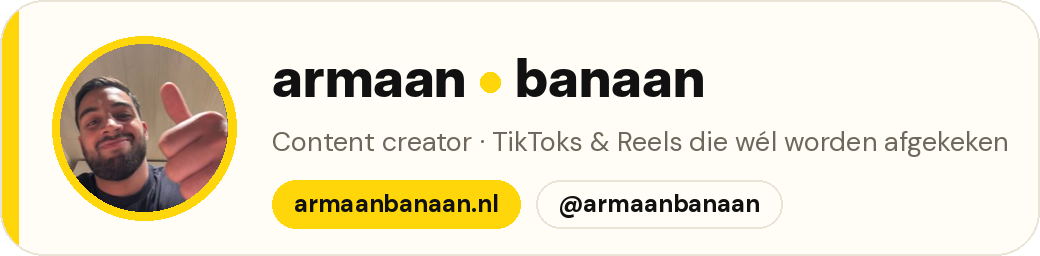
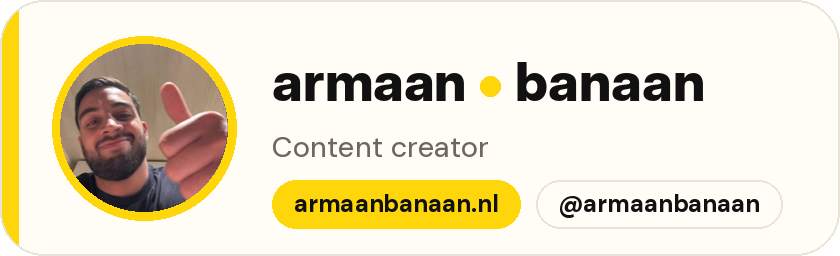
Handtekening zonder tagline, compacter
Claude-Session: https://claude.ai/code/session_015ZwjptG5643FffgQvzRDc9

diff --git a/handtekening.html b/handtekening.html
@@ -23,7 +23,7 @@
   <p class="uitleg">Klik op de knop, of selecteer alles in het witte vak, en plak het in je mail-app.</p>
 
   <div class="kaart">
-    <div id="handtekening"><table cellpadding="0" cellspacing="0" border="0" style="border-collapse:collapse;font-family:-apple-system,BlinkMacSystemFont,'Segoe UI',Helvetica,Arial,sans-serif"><tr><td style="padding:0 0 6px 0"><a href="https://armaanbanaan.nl" style="text-decoration:none"><img src="https://armaanbanaan.nl/handtekening.png" width="520" height="128" alt="Armaan Banaan · Content creator · armaanbanaan.nl" style="display:block;width:520px;max-width:100%;height:auto;border:0"></a></td></tr><tr><td style="font-size:12px;line-height:18px;color:#6e675c">Armaan Banaan · <a href="mailto:collab@armaanbanaan.nl" style="color:#6e675c">collab@armaanbanaan.nl</a> · <a href="https://armaanbanaan.nl" style="color:#6e675c">armaanbanaan.nl</a></td></tr></table></div>
+    <div id="handtekening"><table cellpadding="0" cellspacing="0" border="0" style="border-collapse:collapse;font-family:-apple-system,BlinkMacSystemFont,'Segoe UI',Helvetica,Arial,sans-serif"><tr><td style="padding:0 0 6px 0"><a href="https://armaanbanaan.nl" style="text-decoration:none"><img src="https://armaanbanaan.nl/handtekening.png" width="420" height="128" alt="Armaan Banaan · Content creator · armaanbanaan.nl" style="display:block;width:420px;max-width:100%;height:auto;border:0"></a></td></tr><tr><td style="font-size:12px;line-height:18px;color:#6e675c">Armaan Banaan · <a href="mailto:collab@armaanbanaan.nl" style="color:#6e675c">collab@armaanbanaan.nl</a> · <a href="https://armaanbanaan.nl" style="color:#6e675c">armaanbanaan.nl</a></td></tr></table></div>
   </div>
   <button type="button" id="kopieer">Kopieer handtekening</button><span class="ok" id="ok"></span>
 
